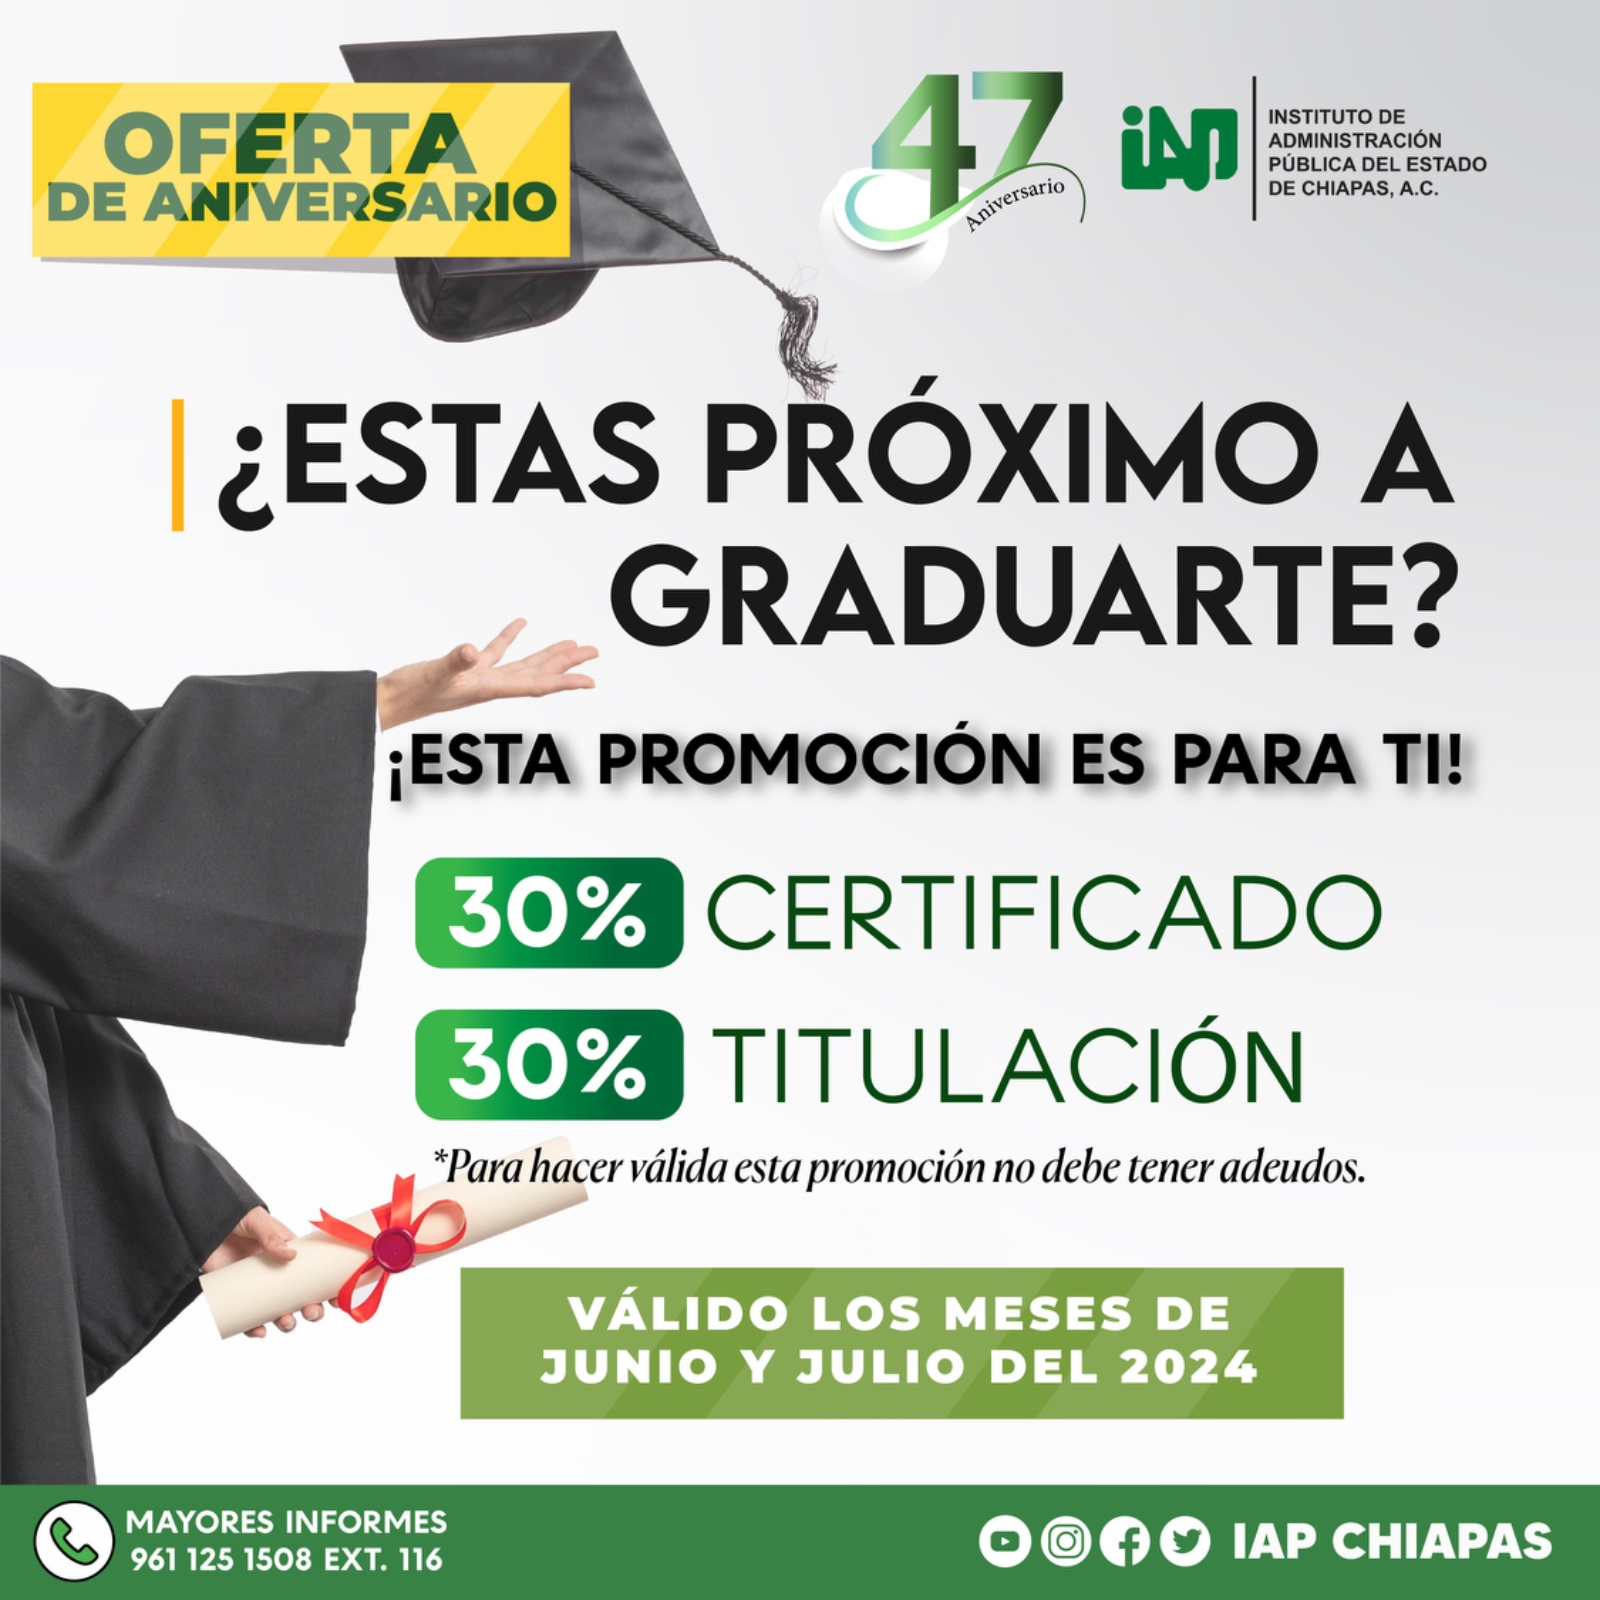
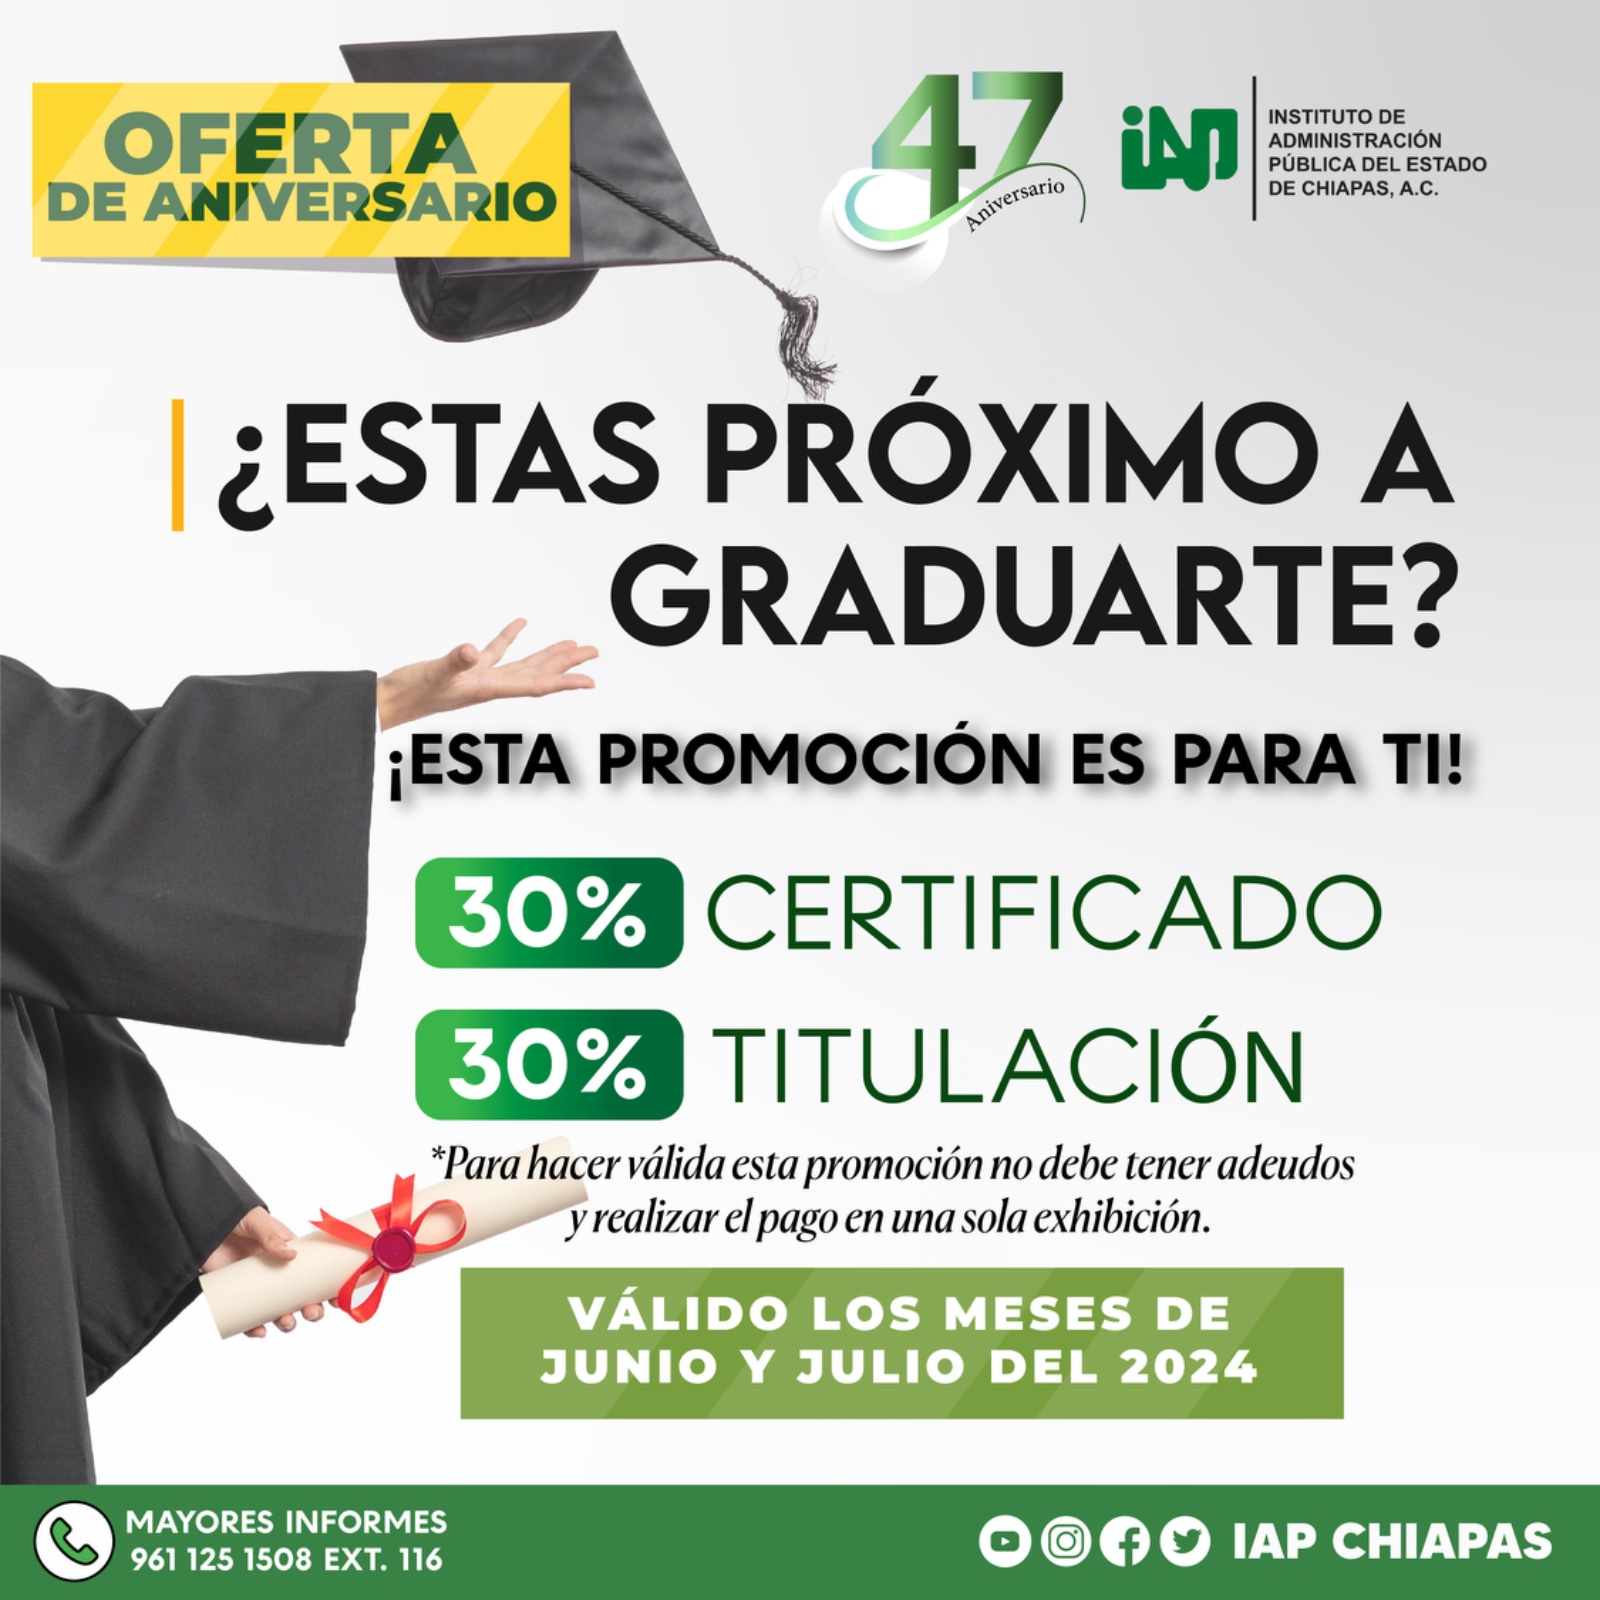
Cambio de la imagen de promoción

Changed region(s): [[0.2812, 0.7188, 0.8438, 0.7812]]

diff --git a/index.php b/index.php
@@ -280,7 +280,7 @@ $pagesBlackList = ['test-docente', 'information-modules-student', 'migrupo', 'do
 if ($User) {
 	$estudiantePromo = $course->getStudents("AND user_subject.courseId IN(159, 160, 161, 151) AND user_subject.status = 'activo' AND user_subject.alumnoId = {$_SESSION["User"]["userId"]} ");
 	if ($estudiantePromo[0]['controlNumber']) {
-		$mensajePromo = "<img src='" . WEB_ROOT . "/images/promocion.jpeg' class='img-fluid'>";
+		$mensajePromo = "<img src='" . WEB_ROOT . "/images/promocion.jpeg?v=2' class='img-fluid'>";
 		$smarty->assign("promo", true);
 		$smarty->assign("mensajePromo", $mensajePromo);
 	}
